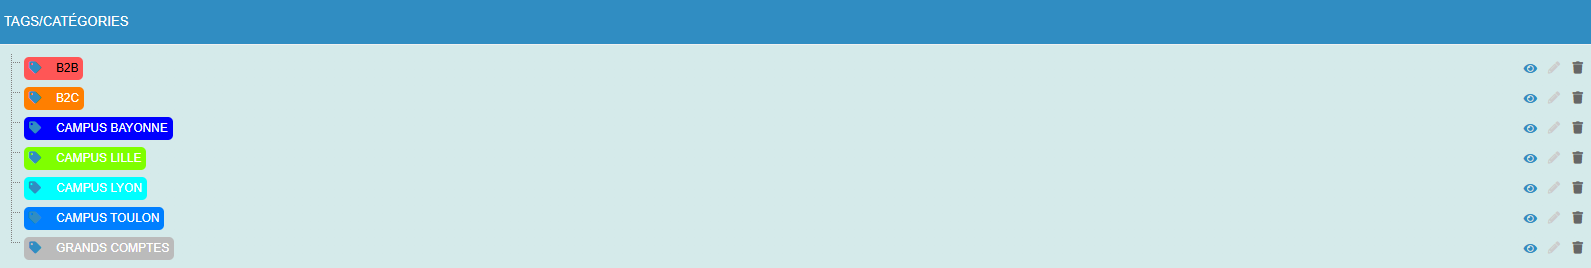
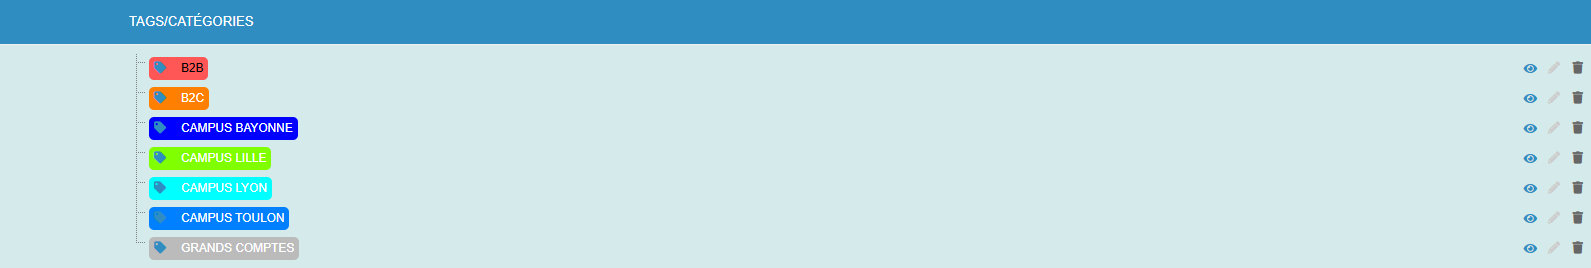
maj img

Changed region(s): [[0.0, 0.209, 0.2156, 0.9851], [0.0, 0.0597, 0.154, 0.1194], [0.0, 0.209, 0.0616, 0.2985]]

diff --git a/pages/tiers.html b/pages/tiers.html
@@ -322,7 +322,7 @@
                     <div class="step-cards">
                         <div class="step-card">
                             <div class="step-card-image">
-                                <img src="../img/tiers/nouveauTiers.png" alt="Création d'un nouveau tiers" style="width: 250px">
+                                <img src="../img/tiers/nouveauTiers.png" alt="Création d'un nouveau tiers" style="width: 350px">
                             </div>
                             <div class="step-card-content">
                                 <h5>Création d'un nouveau tiers</h5>
@@ -335,7 +335,7 @@
                         
                         <div class="step-card">
                             <div class="step-card-image">
-                                <img src="../img/tiers/liste.tiers.png" alt="Liste des tiers" style="width: 250px">>
+                                <img src="../img/tiers/liste.tiers.png" alt="Liste des tiers" style="width: 350px">
                             </div>
                             <div class="step-card-content">
                                 <h5>Consulter vos tiers via "liste"</h5>
@@ -348,7 +348,7 @@
                         
                         <div class="step-card">
                             <div class="step-card-image">
-                                <img src="../img/tiers/tag-categories_1.png" alt="Catégorisation des tiers" style="width: 250px">>
+                                <img src="../img/tiers/tag-categories_1.png" alt="Catégorisation des tiers" style="width: 650px">
                             </div>
                             <div class="step-card-content">
                                 <h5>Catégoriser vos tiers</h5>
